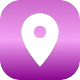
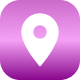
Completed front-end for this application

diff --git a/src/screens/PostNowScreen.js b/src/screens/PostNowScreen.js
@@ -27,17 +27,17 @@ export default function PostNowScreen({navigation}) {
     {
       id: 1,
       title: 'Public',
-      icon: 'earth',
+      icon: require('../assets/public.png'),
     },
     {
       id: 2,
       title: 'Followers',
-      icon: 'people',
+      icon: require('../assets/followers.png'),
     },
     {
       id: 3,
       title: 'Private',
-      icon: 'lock-closed',
+      icon: require('../assets/private.png'),
     },
   ];
 
@@ -45,17 +45,17 @@ export default function PostNowScreen({navigation}) {
     {
       id: 1,
       title: 'Tag People',
-      icon: 'person-add',
+      icon: require('../assets/tag_people.png'),
     },
     {
       id: 2,
       title: 'Add Location',
-      icon: 'location',
+      icon: require('../assets/location.png'),
     },
     {
       id: 3,
       title: 'Add Music',
-      icon: 'musical-notes',
+      icon: require('../assets/music.png'),
     },
   ];
 
@@ -78,11 +78,9 @@ export default function PostNowScreen({navigation}) {
             style={styles.backButton}
             onPress={() => navigation.goBack()}>
 
-            <Ionicons
-              name="arrow-back"
-              size={34}
-              color="#111111"
-            />
+            <Image
+            source={require('../assets/back.png')}
+            style={{height:34,width:34,resizeMode:'contain'}}/>
 
           </TouchableOpacity>
 
@@ -139,19 +137,11 @@ export default function PostNowScreen({navigation}) {
 
               <View style={styles.actionLeft}>
 
-                <LinearGradient
-                  colors={['#E28AEF', '#A100C8']}
-                  start={{x: 0, y: 0}}
-                  end={{x: 1, y: 1}}
-                  style={styles.iconGradient}>
 
-                  <Ionicons
-                    name={item.icon}
-                    size={30}
-                    color="#FFFFFF"
-                  />
+                  <Image
+                  source={item.icon}
+                  style={{width:40,height:40,resizeMode:'contain'}}/>
 
-                </LinearGradient>
 
                 <Text style={styles.actionText}>
                   {item.title}
@@ -159,11 +149,9 @@ export default function PostNowScreen({navigation}) {
 
               </View>
 
-              <Feather
-                name="chevron-right"
-                size={34}
-                color="#111111"
-              />
+              <Image
+              source={require('../assets/right.png')}
+              style={{width:16,height:32,resizeMode:'contain'}}/>
 
             </TouchableOpacity>
           ))}
@@ -190,11 +178,9 @@ export default function PostNowScreen({navigation}) {
                   active && styles.activePrivacyButton,
                 ]}>
 
-                <Ionicons
-                  name={item.icon}
-                  size={22}
-                  color={active ? '#FFFFFF' : '#D46BDF'}
-                />
+                 <Image
+                  source={item.icon}
+                  style={{width:22,height:22,resizeMode:'contain'}}/>
 
                 <Text
                   style={[
@@ -216,12 +202,9 @@ export default function PostNowScreen({navigation}) {
         <View style={styles.shareRow}>
 
           <View style={styles.shareLeft}>
-
-            <Feather
-              name="share-2"
-              size={32}
-              color="#111111"
-            />
+    <Image
+                  source={require('../assets/share.png')}
+                  style={{width:32,height:32,resizeMode:'contain'}}/>
 
             <Text style={styles.shareText}>
               Share to other apps

diff --git a/src/screens/AIResultScreen.js b/src/screens/AIResultScreen.js
@@ -32,17 +32,17 @@ export default function AIResultScreen({navigation}) {
     {
       id: 1,
       title: 'Cinematic',
-      icon: 'film-outline',
+      icon: require('../assets/cinematic.png'),
     },
     {
       id: 2,
       title: 'Minimal',
-      icon: 'brush-outline',
+      icon: require('../assets/minimal.png'),
     },
     {
       id: 3,
       title: 'Aesthetic',
-      icon: 'sparkles-outline',
+      icon: require('../assets/aesthatic.png'),
     },
   ];
 
@@ -174,12 +174,9 @@ export default function AIResultScreen({navigation}) {
                   styles.styleCard,
                   active && styles.activeStyleCard,
                 ]}>
-
-                <Ionicons
-                  name={item.icon}
-                  size={42}
-                  color={active ? '#A100C8' : '#E28AEF'}
-                />
+                <Image
+                source={item.icon}
+                style={{height:42,width:100,resizeMode:"contain"}}/>
 
                 <Text
                   style={[
@@ -219,6 +216,7 @@ export default function AIResultScreen({navigation}) {
           </TouchableOpacity>
 
           <TouchableOpacity
+          onPress={()=> navigation.navigate("PostNowScreen")}
             activeOpacity={0.9}
             style={styles.actionButtonWrapper}>
 
@@ -234,11 +232,9 @@ export default function AIResultScreen({navigation}) {
                   Next
                 </Text>
 
-                <Ionicons
-                  name="arrow-forward"
-                  size={24}
-                  color="#FFFFFF"
-                />
+                <Image
+                source={require('../assets/right_arrow.png')}
+                style={{height:24,width:24,resizeMode:"contain"}}/>
 
               </View>
 

diff --git a/src/screens/CreateAIScreen.js b/src/screens/CreateAIScreen.js
@@ -59,7 +59,7 @@ const creationTypes = [
   },
 ];
 
-const CreateAIScreen = () => {
+const CreateAIScreen = ({navigation}) => {
   const [selectedType, setSelectedType] =
     useState(1);
 
@@ -211,6 +211,7 @@ const CreateAIScreen = () => {
 
         {/* GENERATE BUTTON */}
         <TouchableOpacity
+        onPress={()=> navigation.navigate("AIResultScreen")}
           activeOpacity={0.9}>
           <LinearGradient
             colors={[

diff --git a/src/screens/CreatePostScreen.js b/src/screens/CreatePostScreen.js
@@ -48,7 +48,7 @@ const createOptions = [
     id: 4,
     title: 'Highlights',
     icon: highlightsIcon,
-    screen: 'HighlightsScreen',
+    screen: 'HighlightScreen',
   },
   {
     id: 5,

diff --git a/src/screens/VidCallScreen.js b/src/screens/VidCallScreen.js
@@ -24,7 +24,7 @@ import verifiedIcon from '../assets/verified.png';
 
 import videoIcon from '../assets/video.png';
 import micIcon from '../assets/mic.png';
-import switchIcon from '../assets/switch.png';
+import switchIcon from '../assets/reshares.png';
 import endCallIcon from '../assets/endcall.png';
 
 const VidcallScreen = ({navigation}) => {